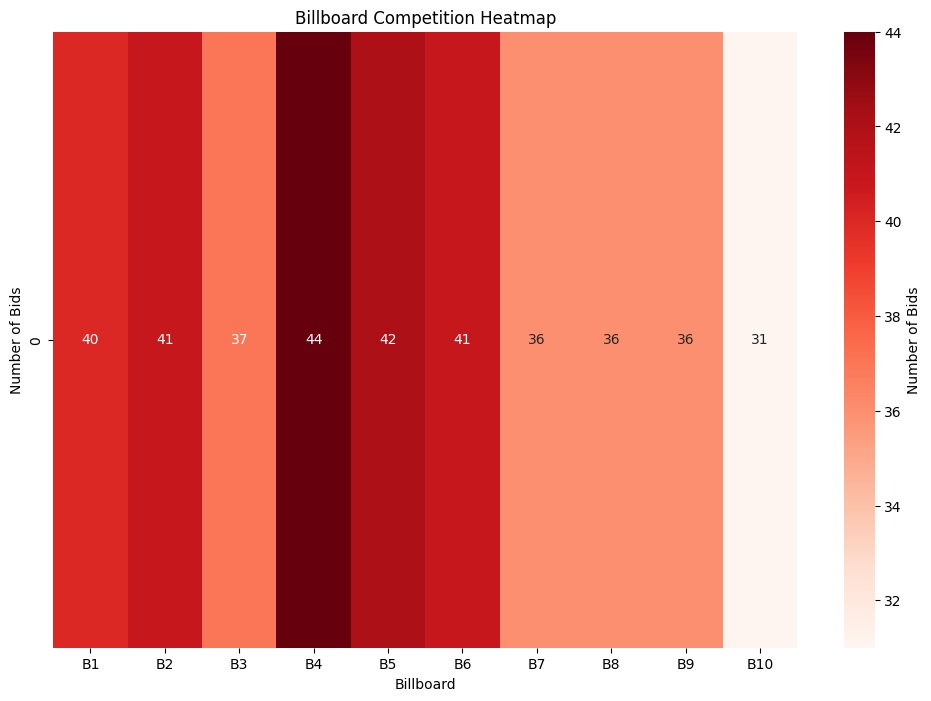
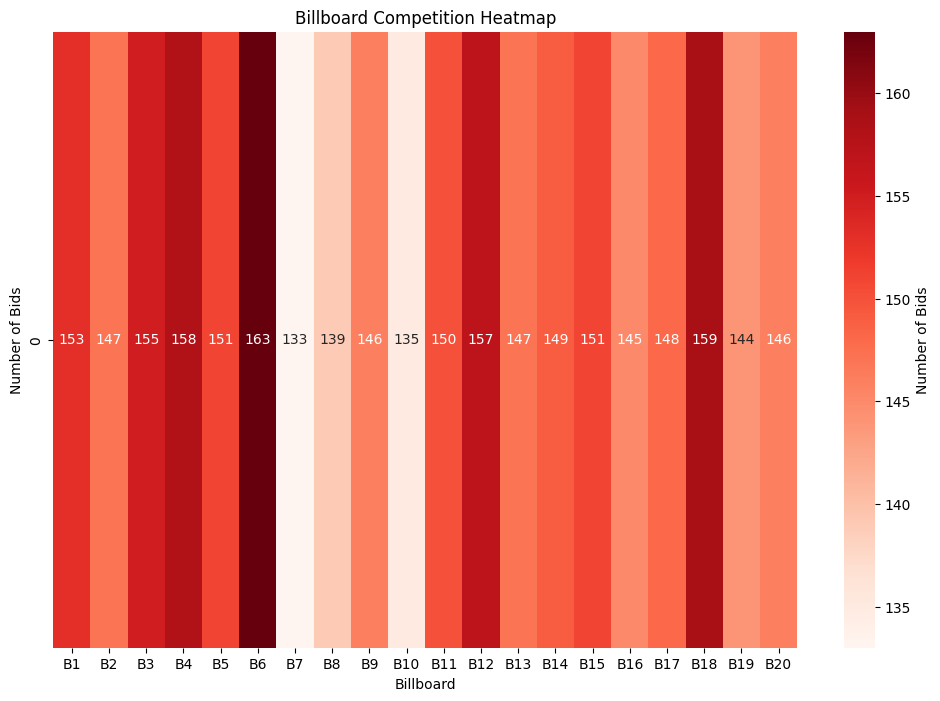
Add bidding range and winner bid plot

diff --git a/plot.py b/plot.py
@@ -1,10 +1,11 @@
-from main import advertiser_preferences, final_allocation
+from main import advertiser_preferences, final_allocation, all_bids_df, base_prices, num_advertisers
 
 import pandas as pd
 import seaborn as sns
 import matplotlib.pyplot as plt
 import matplotlib.ticker as ticker
-
+import matplotlib.lines as mlines
+import numpy as np
 
 def billboard_sort_key(name):
     """
@@ -68,13 +69,59 @@ ax.xaxis.set_major_locator(ticker.MultipleLocator(5))
 ax.tick_params(axis='both', which='major', labelsize=12)
 
 plt.grid(True, which='both', linestyle='--', linewidth=0.5)
-plt.xlim(0, 50)
+plt.xlim(0, num_advertisers)
 
-plt.xticks(range(0, 51, 5))
+plt.xticks(range(0, num_advertisers + 1, 5))
 
 
 plt.tight_layout()
 
 plt.savefig('./Results/final_auction_price_analysis.png', format='png', bbox_inches='tight')
 
+winning_bids = final_allocation.set_index('Billboard')['Price']
 
+all_bids_df = all_bids_df.applymap(lambda x: np.nan if x is None else x)
+
+min_bids = all_bids_df.min()
+max_bids = all_bids_df.max()
+max_bid_value = np.nanmax(all_bids_df.max())
+horizontal_offset = 0.2  # horizontal offset
+vertical_offset = max_bid_value * 0.05  # 5% of the max bid value for vertical spacing
+
+plt.figure(figsize=(14, 8))
+
+# Custom legend handles
+range_line = mlines.Line2D([], [], color='grey', marker='o', linestyle='-', label='Bid Range')
+winning_bid_marker = plt.Line2D([], [], color='red', marker='o', linestyle='None', label='Winning Bid')
+default_price_marker = plt.Line2D([], [], color='blue', marker='s', linestyle='None', label='Default Base Price (No Competition)')
+
+# Loop through each billboard and plot the range, the winning bid, and handle NaN cases
+for idx, billboard in enumerate(all_bids_df.columns):
+    if all_bids_df[billboard].isna().all():
+        plt.scatter([idx], [base_prices[billboard]], color='blue', marker='s')
+        plt.text(idx, base_prices[billboard], f' ${base_prices[billboard]:,.2f}',
+                 ha='center', va='bottom', color='blue', fontsize=8)
+    else:
+        min_bid = min_bids[billboard]
+        max_bid = max_bids[billboard]
+        plt.plot([idx, idx], [min_bid, max_bid], marker='o', color='grey', zorder=1)
+        plt.scatter([idx], [winning_bids[billboard]], color='red', zorder=2)
+
+        plt.text(idx + horizontal_offset, winning_bids[billboard], f' ${winning_bids[billboard]:,.2f}',
+             ha='left', va='center', color='blue', fontsize=8)
+
+        # plt.text(idx, min_bids[billboard] - vertical_offset, f' ${min_bids[billboard]:,.2f}',
+        #         ha='center', va='top', color='green', fontsize=8)
+
+        # plt.text(idx, max_bids[billboard] + vertical_offset, f' ${max_bids[billboard]:,.2f}',
+        #         ha='center', va='bottom', color='orange', fontsize=8)
+
+# Labeling the plot
+plt.title('Bid Range and Winning Bid for Each Billboard', fontsize=16)
+plt.xlabel('Billboard', fontsize=14)
+plt.ylabel('Bid Amount ($)', fontsize=14)
+plt.xticks(range(len(all_bids_df.columns)), all_bids_df.columns)  # Set the x-ticks to be the billboard names
+plt.grid(True)
+
+plt.legend(handles=[range_line, winning_bid_marker, default_price_marker], loc='upper right')
+plt.savefig('./Results/bid_range_with_winning_bid.png', format='png', bbox_inches='tight')

diff --git a/main.py b/main.py
@@ -100,10 +100,13 @@ def analyze_ip_ranks(advertiser_preferences, base_prices, seed=None):
                 allocation_records.append({'Advertiser': advertiser, 'Billboard': billboard, 'Price': current_base_price})
             else:
                 bids = {advertiser: np.random.uniform(1.5 * current_base_price, 2 * current_base_price) for advertiser in top_preferences.index}
+                all_bids[billboard].extend(bids.values())  # Add all bids to all_bids
                 winner, price = vcg_second_bid_auction(bids)
                 allocation_records.append({'Advertiser': winner, 'Billboard': billboard, 'Price': price})
 
-    return pd.DataFrame(allocation_records)
+    all_bids_df = pd.DataFrame(dict([(k, pd.Series(v)) for k, v in all_bids.items()]))
+
+    return pd.DataFrame(allocation_records), all_bids_df
 
 def generate_dynamic_billboard_pricing(num_billboards, seed=None):
     """
@@ -134,28 +137,30 @@ def generate_dynamic_billboard_pricing(num_billboards, seed=None):
     return prices
 
 
-num_billboards = 10
-num_advertisers = 50
+num_billboards = 20
+num_advertisers = 200
 score_seed = 42
 analyze_seed = 10
 
 # Initialize the DataFrame
 advertiser_preferences = pd.DataFrame(index=[f'A{i+1}' for i in range(num_advertisers)], columns=[f'B{i+1}' for i in range(num_billboards)])
 
+all_bids = {billboard: [] for billboard in advertiser_preferences.columns}  # Initialize a dict to store all bids
+
 # Set Dynamic base prices for each billboard by the owner
 base_prices = generate_dynamic_billboard_pricing(num_billboards, analyze_seed)
-print(f"Base price: {base_prices}")
+# print(f"Base price: {base_prices}")
 
 for i in range(num_advertisers):
     scores = generate_random_scores(num_billboards, i, score_seed)
-    print(f"score: {scores}")
+    # print(f"score: {scores}")
     ranks = find_advertiser_rank(num_billboards, scores)
-    print(f"Advertiser Ranks: {ranks}")
+    # print(f"Advertiser Ranks: {ranks}")
     if ranks:
         for billboard, rank in ranks.items():
             advertiser_preferences.at[f'A{i+1}', billboard] = rank
 
 # print(f"final advertiser_preferences: {advertiser_preferences}")
-final_allocation = analyze_ip_ranks(advertiser_preferences, base_prices, analyze_seed)
+final_allocation, all_bids_df = analyze_ip_ranks(advertiser_preferences, base_prices, analyze_seed)
 print(final_allocation)
 
